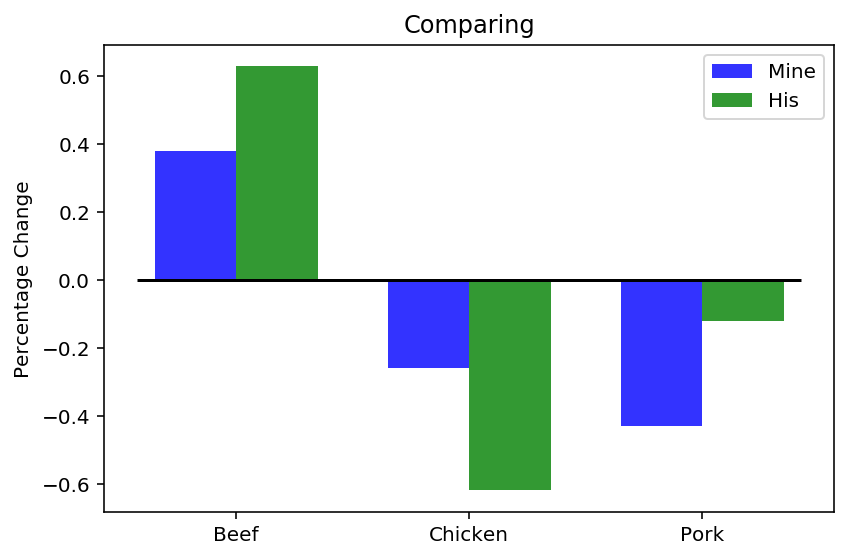
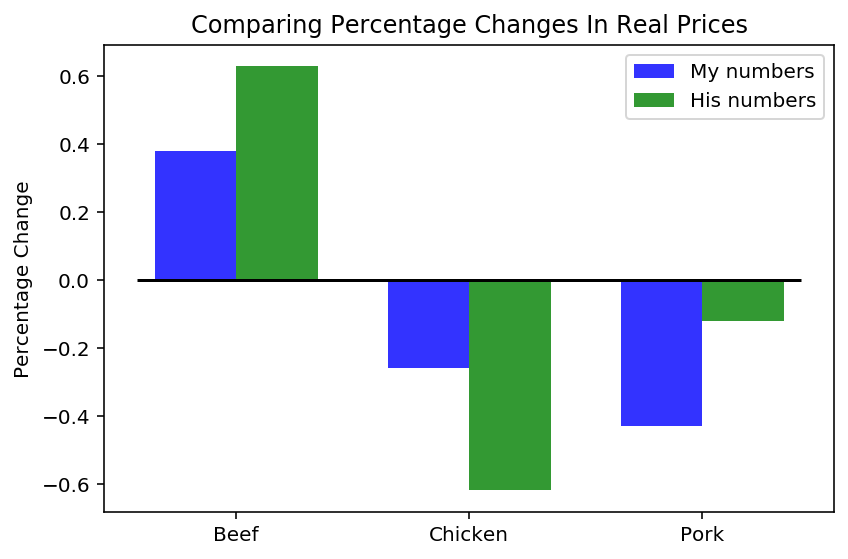
Final post

Changed region(s): [[0.7358, 0.0912, 0.9811, 0.2129], [0.2146, 0.0304, 0.8892, 0.0912]]

diff --git a/src/price_check.py b/src/price_check.py
@@ -11,7 +11,7 @@
 
 # The chart below shows how the average price of 3 different types of meats has changed over time.
 
-# In[5]:
+# In[6]:
 
 
 import pandas as pd
@@ -38,7 +38,7 @@ plt.ylabel('Price');
 
 # To adjust for the change in purchasing power I'll use the CPI.
 
-# In[2]:
+# In[7]:
 
 
 CURRENT_CPI = cpi.loc[cpi.date == cpi.date.max(), 'cpi'].values[0]
@@ -56,7 +56,7 @@ adjust.pipe(lambda x:
 plt.ylabel('Price')
 plt.title('Meat Prices Over Time (Real)');
 
-# In[3]:
+# In[8]:
 
 
 his = {
@@ -91,9 +91,9 @@ adjust['Extrap'] = (adjust['cur_price'] - adjust['Extrap']) / adjust['Extrap']
 # - Beef has increased 25% from 1984
 # - Chicken has decreased 31.4% since 1980
 # 
-# In order to adjust for the different number of years between myself and the author, I'll convert the growth rate into a yearly one and extrapolate backwards. This requires the assumption that the growth rates between all the meats are constant.
+# In order to adjust for the different number of years of data between myself and the author, I'll compute the average price change per month and extrapolate backwards. This requires the assumption that the growth rates between all the meats are constant and is likely too simple.
 
-# In[4]:
+# In[12]:
 
 
 n_groups = 3
@@ -108,22 +108,22 @@ rects1 = plt.bar(index,
                  bar_width,
                  alpha=opacity,
                  color='b',
-                 label='Mine')
+                 label='My numbers')
 
 rects2 = plt.bar(index + bar_width,
                  adjust['his'], 
                  bar_width,
                  alpha=opacity,
                  color='g',
-                 label='His')
+                 label='His numbers')
 
 plt.hlines(y=0, xmin=-.25, xmax=2.6)
 plt.ylabel('Percentage Change')
-plt.title('Comparing')
+plt.title('Comparing Percentage Changes In Real Prices')
 plt.xticks(index + bar_width / 2, ('Beef', 'Chicken', 'Pork'))
 plt.legend()
 
 plt.tight_layout()
 plt.show()
 
-# I finally arrive at the above numbers. My estimates for beef and chicken are both very similar.
+# I arrive at the above numbers, which had identical directions as the author.

diff --git a/price_check.md b/price_check.md
@@ -24,10 +24,10 @@ A couple things to note about the real prices:
 - Beef has increased 25% from 1984
 - Chicken has decreased 31.4% since 1980
 
-In order to adjust for the different number of years between myself and the author, I'll convert the growth rate into a yearly one and extrapolate backwards. This requires the assumption that the growth rates between all the meats are constant.
+In order to adjust for the different number of years of data between myself and the author, I'll compute the average price change per month and extrapolate backwards. This requires the assumption that the growth rates between all the meats are constant and is likely too simple.
 
 
 ![png](price_check_files/price_check_7_0.png)
 
 
-I finally arrive at the above numbers. My estimates for beef and chicken are both very similar.
+I arrive at the above numbers, which had identical directions as the author.
